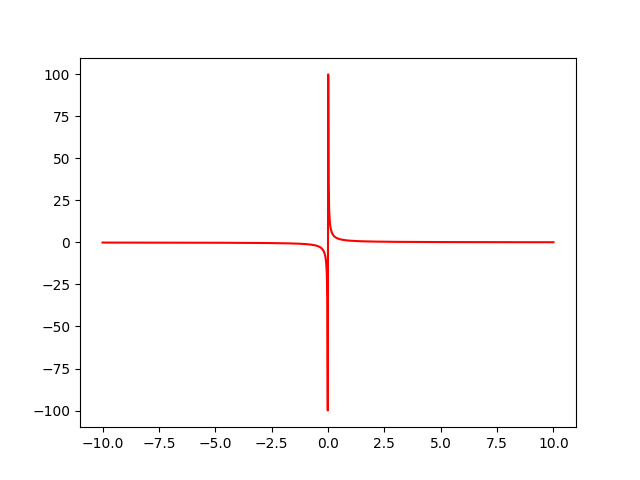
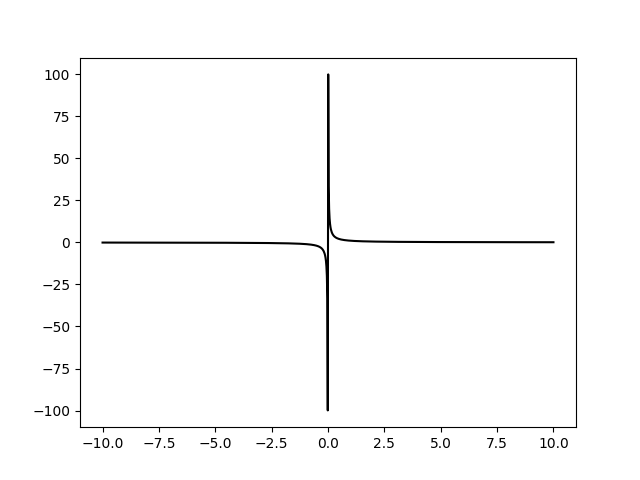
ghhzfh

Changed region(s): [[0.1562, 0.1562, 0.875, 0.8438]]

diff --git a/task_2.py b/task_2.py
@@ -6,7 +6,7 @@ def giperbola_plotter(x1,x2,N):
     x = np.linspace(x1,x2,N)
     x != 1
     y = 1/x
-    plt.plot(x,y, color = 'r')
+    plt.plot(x,y, color = 'black')
     plt.savefig('task_2.png')
 
 if __name__ == '__main__':
